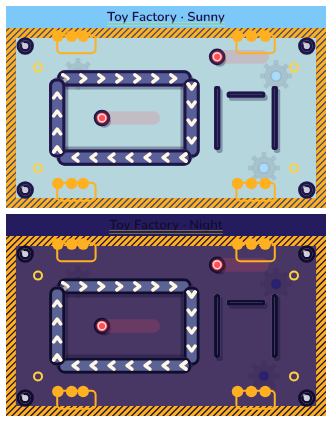
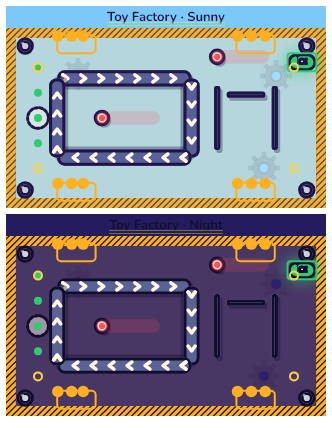
Land the approved race on Block Castle and Toy Factory (B-015)
Both maps now carry the race the owner approved in bugs6: Block Castle
starts on the west lawn and finishes on a pad inside the keep, Toy Factory
runs across the open floor to the top-east bay; both swap sides every round.
The numbers are pasted unchanged and both keep their Bumper Round.
A new race_maps_test holds the values; four_maps_test, the host picker
tests and docs/levels.md now say which maps have a race, and both design
sheets are re-rendered. Needs a device check: the keep gate opens only a
third of its cycle.

diff --git a/packages/test_game/test/race_maps_test.dart b/packages/test_game/test/race_maps_test.dart
@@ -1,0 +1,56 @@
+import 'dart:ui';
+
+import 'package:flutter/foundation.dart' show debugPrint;
+import 'package:flutter_test/flutter_test.dart';
+import 'package:test_game/test_game.dart';
+
+import 'support/map_files.dart';
+
+/// The race each map landed (M14 bugs7 b015), as the owner approved it in
+/// bugs6: Block Castle finishes inside the keep, Toy Factory in the top-east
+/// bay, and both swap sides every round, as the race does.
+const approvedRaces = <String, RaceSpec>{
+  'block-castle': RaceSpec(start: Offset(0.075, 0.5), goal: Rect.fromLTRB(0.4625, 0.444, 0.5375, 0.556)),
+  'toy-factory': RaceSpec(start: Offset(0.1, 0.5), goal: Rect.fromLTRB(0.88, 0.14, 0.97, 0.24)),
+};
+
+/// The maps of M14 k2b that stay Bumper Round only: no race to win.
+const bumperOnlyMapIds = ['pinball', 'spinning-tops'];
+
+void main() {
+  test('block-castle and toy-factory race from the approved start to the approved goal, swapping sides', () {
+    for (final MapEntry(key: id, value: approved) in approvedRaces.entries) {
+      final race = loadMap(id).race;
+      expect(race, isNotNull, reason: '$id has a race section (M14 bugs7 b015)');
+      expect(race?.start, approved.start, reason: '$id starts where the owner approved it');
+      expect(race?.goal, approved.goal, reason: '$id finishes on the approved pad');
+      expect(race?.swapSides, isTrue, reason: '$id swaps sides every round, as the race does');
+    }
+  });
+
+  test('block-castle and toy-factory keep their Bumper Round starts and coin zones', () {
+    for (final id in approvedRaces.keys) {
+      final bumper = loadMap(id).bumper;
+      expect(bumper, isNotNull, reason: '$id still plays the Bumper Round');
+      expect(bumper?.starts, hasLength(bumperStarts), reason: '$id still starts four marbles');
+    }
+  });
+
+  test('block-castle and toy-factory pass the rule book with their race in place', () {
+    for (final id in approvedRaces.keys) {
+      final issues = checkMap(loadMap(id));
+      for (final issue in issues) {
+        debugPrint('$issue');
+      }
+      expect(issues, isEmpty, reason: '$id: ${issues.isEmpty ? 'ready to race' : '${issues.length} issue(s)'}');
+    }
+  });
+
+  test('pinball and spinning-tops still have no race: the Bumper Round alone', () {
+    for (final id in bumperOnlyMapIds) {
+      final map = loadMap(id);
+      expect(map.race, isNull, reason: '$id is a Bumper Round arena with no finish (party-night §7b)');
+      expect(map.bumper, isNotNull, reason: '$id plays the Bumper Round');
+    }
+  });
+}

diff --git a/packages/party_host/test/arena_waiting_test.dart b/packages/party_host/test/arena_waiting_test.dart
@@ -59,12 +59,14 @@ void main() {
     }
     expect(find.byKey(const Key('arenaMap-surprise')), findsOneWidget);
 
-    // The race is the Playroom's alone: the four new maps are Bumper arenas
-    // with no finish, so the picker offers the other mode's maps alone (design
-    // section 7b).
+    // The race plays the Playroom and the two maps that landed one (M14 bugs7
+    // b015); the Bumper arenas with no finish are left out (design section 7b).
     await tapCard(tester, 'arenaMode-race');
     expect(find.byKey(const Key('arenaMap-playroom')), findsOneWidget);
+    expect(find.byKey(const Key('arenaMap-block-castle')), findsOneWidget, reason: 'Block Castle has a race');
+    expect(find.byKey(const Key('arenaMap-toy-factory')), findsOneWidget, reason: 'Toy Factory has a race');
     expect(find.byKey(const Key('arenaMap-pinball')), findsNothing, reason: 'Pinball has no race');
+    expect(find.byKey(const Key('arenaMap-spinning-tops')), findsNothing, reason: 'Spinning Tops has no race');
     expect(find.byKey(const Key('arenaMap-surprise')), findsOneWidget);
   });
 

diff --git a/packages/party_host/test/arena_phone_card_test.dart b/packages/party_host/test/arena_phone_card_test.dart
@@ -46,8 +46,11 @@ void main() {
     await press(tester, fake, 'p1', GamepadButton.a);
     expect(appContainer(tester).read(arenaSettingsProvider).mode, ArenaMode.race, reason: 'the next press works too');
 
-    // Down the card to the maps: the race plays the Playroom alone.
-    await walkTo(tester, fake, 'arenaMap-playroom', GamepadButton.dpadDown);
+    // Down the card to the map row — the race plays three maps since M14 bugs7
+    // b015, so the arrow lands on the card under the player rows — then left
+    // along the row to the Playroom.
+    await walkTo(tester, fake, 'arenaMap-block-castle', GamepadButton.dpadDown);
+    await walkTo(tester, fake, 'arenaMap-playroom', GamepadButton.dpadLeft);
     await press(tester, fake, 'p1', GamepadButton.a);
     expect(find.byKey(const Key('chosenMap-playroom')), findsOneWidget, reason: 'A presses the map row');
 

diff --git a/packages/test_game/test/four_maps_test.dart b/packages/test_game/test/four_maps_test.dart
@@ -71,11 +71,17 @@ void main() {
     }
   });
 
-  test('each new map plays the Bumper Round only: no race section, four mirror-image starts', () {
+  test('each new map plays the Bumper Round, and only pinball and spinning-tops have no race', () {
     for (final id in fourMapIds) {
-      final map = loadMap(id);
-      expect(map.race, isNull, reason: '$id is a Bumper Round arena (party-night §7b)');
-      expect(map.bumper, isNotNull, reason: '$id plays the Bumper Round');
+      expect(loadMap(id).bumper, isNotNull, reason: '$id plays the Bumper Round');
     }
+    expect(
+      [
+        for (final id in fourMapIds)
+          if (loadMap(id).race == null) id,
+      ],
+      ['pinball', 'spinning-tops'],
+      reason: 'Block Castle and Toy Factory landed a race too (M14 bugs7 b015)',
+    );
   });
 }

diff --git a/docs/briefs/m14/bugs7/b015-build-report.md b/docs/briefs/m14/bugs7/b015-build-report.md
@@ -1,0 +1,129 @@
+# b015 build: the race landed on Block Castle and Toy Factory
+
+## Summary
+
+**Fixed, unverified: needs device check.** The two race sections the owner approved in bugs6 are in the map files,
+numbers unchanged, and nothing else in either map changed (no wall, hazard, coin, Bumper or piece). Both maps still
+pass the rule book and the schema (4 tests each) and still play the Bumper Round.
+
+| | Block Castle | Toy Factory |
+| --- | --- | --- |
+| `start` | `[0.075, 0.5]` | `[0.1, 0.5]` |
+| `goal` | `[0.4625, 0.444, 0.5375, 0.556]` (12.0 × 10.1 units) | `[0.88, 0.14, 0.97, 0.24]` (14.4 × 9.0 units) |
+| `swapSides` | `true` | `true` |
+| sheet | 42,793 bytes, was 35,793 | 57,540 bytes, was 49,034 |
+
+- **Tests first.** New `race_maps_test.dart` (4 tests) failed on the old maps for the right reason ("block-castle has
+  a race section: Expected not null, actual null") before either map changed; it passes now.
+- **`four_maps_test.dart`** "Bumper Round only" is renamed and now says: all four keep the Bumper Round, and only
+  pinball and spinning-tops have `race == null`.
+- **The picker** now offers three race maps (playroom, block-castle, toy-factory) instead of one. `arena_waiting_test`
+  asserts the new set; `arena_phone_card_test` no longer passes, because with three map cards the down arrow lands on
+  Block Castle, so it now walks down to that card and left to the Playroom (same pick, same expectations).
+- **`docs/levels.md`** said "A map with only `bumper` is a Bumper Round arena with no finish (M14 k2's four)"; it now
+  names Pinball and Spinning Tops, and says the Playroom, Block Castle and Toy Factory play either mode.
+- **The sheets** are re-rendered by the kit's render test (the render is a pure function of the map), so they now show
+  the start column and the goal pad.
+- **The risk:** Block Castle's goal is inside the keep, whose west and east gates never admit a marble (bugs6); the
+  finish is a timing gate that opens to 1.8 marbles for about a third of a 3 s cycle.
+- **Not done:** a device play test (none exists over map files); and the steering runs in bugs6 (1.82 s, 2.23 s) were
+  over the same numbers, not repeated here.
+
+What the owner should try on a device: race Block Castle with 2–4 players and judge the keep gate (fair gap or lucky
+one), then Toy Factory, to see whether the open floor reads as a race or a straight line.
+
+## Kit used
+
+`tools/level.sh` itself is refused by the sandbox (as in bugs6), so I ran the commands its own table runs, from
+`packages/test_game`:
+
+- `flutter test --dart-define=mapId=block-castle test/map_check_test.dart test/map_schema_test.dart` → `+4: All tests passed!`
+- `flutter test --dart-define=mapId=toy-factory test/map_check_test.dart test/map_schema_test.dart` → `+4: All tests passed!`
+- `flutter test --dart-define=mapId=block-castle test/map_render_test.dart` → `wrote ../../docs/design/maps/block-castle.png (42793 bytes)`, `+1: All tests passed!`
+- `flutter test --dart-define=mapId=toy-factory test/map_render_test.dart` → `wrote ../../docs/design/maps/toy-factory.png (57540 bytes)`, `+1: All tests passed!`
+
+No Dart code produces a map: the race sections are the `.race.json` objects pasted into the two map files, and every
+check and picture comes from the kit.
+
+## Files changed
+
+- `packages/test_game/test/race_maps_test.dart` (new): the two approved races end to end, both maps' Bumper sections,
+  the rule book over each, and pinball/spinning-tops with no race.
+- `packages/test_game/maps/block-castle.json`: the approved `race` line before `bumper`, and the `notes` sentence
+  "No race section." replaced by one true clause on the race. No other change.
+- `packages/test_game/maps/toy-factory.json`: the same for Toy Factory.
+- `packages/test_game/test/four_maps_test.dart`: the "Bumper Round only" test renamed and changed to the real set of
+  maps without a race; its Bumper assertion kept.
+- `packages/party_host/test/arena_waiting_test.dart`: the race-mode map assertions now name the three race maps and
+  the two without one.
+- `packages/party_host/test/arena_phone_card_test.dart`: the card walk to the Playroom goes down to Block Castle and
+  left, since the map row has three cards now.
+- `docs/levels.md`: the one sentence saying which maps have a finish.
+- `docs/design/maps/block-castle.png`, `docs/design/maps/toy-factory.png`: re-rendered by the kit.
+
+## Computed test values
+
+- Block Castle goal: `(0.5375 − 0.4625) × 160 = 12.0` units across, `(0.556 − 0.444) × 90 = 10.08 ≈ 10.1` down.
+- Toy Factory goal: `(0.97 − 0.88) × 160 = 14.4` units across, `(0.24 − 0.14) × 90 = 9.0` down.
+- Starting spots are `RaceSpec.startOf(slot)` at `startSpacing = 0.14`: 0.5 ± 0.14 and ± 0.28, all inside the field.
+- The picker's race list is the index order filtered by `map.race != null`: playroom, block-castle, toy-factory (3);
+  bumper mode still lists all 5.
+- With three map cards in the Wrap the down arrow from the player rows lands on `arenaMap-block-castle` (measured
+  with a temporary print, reverted) and one left press reaches `arenaMap-playroom`.
+- Test counts on the final tree: arena 226, host 447, phone 464.
+
+## Decisions
+
+1. **The expected values are constants in the new test, not read from the bugs6 files.** The bugs6 brief folder is
+   deleted after a release, so a test reading it would break then; the numbers are copied unchanged and the test
+   names their source.
+2. **`race` sits before `bumper`, after `decor`.** That is `playroom.json`'s and the `docs/levels.md` example's order,
+   and it keeps each file's style.
+3. **The kit's own commands stand in for `tools/level.sh`**, as the brief allows for `render` and as bugs6 did for
+   `check`; nothing in the kit was worked around.
+4. **`site/shots/*.png` are back at the committed bytes.** The required `phone` check rewrites them; `git show
+   HEAD:…` wrote them back, so the tree has no diff outside `allow:`. (`docs/design/m13-*.png` and the Windows
+   generated plugin files were already dirty when the job started, at 21:09; not mine.)
+
+## Questions
+
+1. Block Castle's finish is the keep's timing gate (opens about a third of a 3 s cycle). Is that the intended
+   difficulty for the shipped race, or should a later job move the goal to the courtyard?
+2. The race's four starts sit 0.14 apart (about 2.2 marbles), under the Bumper Round's 3-marble rule. Should the
+   rule book gain a start-spacing check for the race? (bugs6 Q3, still open.)
+
+## Self-check (review-rules.md part A)
+
+1. **Every host setup** — not affected: no app, rules or protocol code changed, only map data read by the shared
+   picker; the picker is one code path for TV and phone, tested by `arena_waiting_test` ("the card shows … the maps it
+   can play") and `arena_phone_card_test` (a phone walks the card). Not run on a device.
+2. **When kept state starts and ends** — not affected: no timer, flag or cache is added; the race section is read once
+   when the map loads, as `race_maps_test`'s four tests show.
+3. **How a new state combines with the others** — the race section adds no pause, wait or input block; it only makes
+   the two maps offer the race mode, tested by `arena_waiting_test`'s mode switch and by `checkMap` over both maps
+   (`map_check_test.dart` with `mapId`, 4 tests each).
+4. **Stay in the job's folder** — `git status --porcelain` shows only files in `allow:` (plus the pre-existing dirty
+   files noted in Decision 4); the regenerated `site/shots` are restored byte-for-byte, so they show no change.
+5. **Stop rather than overstep** — nothing needed was outside `allow:`; `tools/level.sh` is refused by the sandbox, so
+   its exact commands were run instead (the brief names this for `render`); no design decision was taken silently.
+
+## Commit message
+
+Land the approved race on Block Castle and Toy Factory (B-015)
+
+Both maps now carry the race the owner approved in bugs6: Block Castle
+starts on the west lawn and finishes on a pad inside the keep, Toy Factory
+runs across the open floor to the top-east bay; both swap sides every round.
+The numbers are pasted unchanged and both keep their Bumper Round.
+A new race_maps_test holds the values; four_maps_test, the host picker
+tests and docs/levels.md now say which maps have a race, and both design
+sheets are re-rendered. Needs a device check: the keep gate opens only a
+third of its cycle.
+
+## Status row
+
+B-015 done: race landed on Block Castle and Toy Factory (data, tests, sheets, docs), all checks pass; fixed, unverified — needs a device check; open: the keep-gate timing and race start spacing.
+
+## Delete
+
+- none

diff --git a/docs/levels.md b/docs/levels.md
@@ -243,7 +243,7 @@ Positions are fractions, so the field plays the same in any window. Sizes and sp
 | `race` | The Shape Race's part: `start` (where the first player starts), `goal` (the pad, `[left, top, right, bottom]`) and `swapSides` (whether every round flips the field left to right, as the race does today). The other three starts sit above and below `start` at `startSpacing` (0.14 of the height), so a map's start needs room for four. |
 | `bumper` | The Bumper Round's part: `starts` (four spots) and `coins` (one or more rects a coin may appear in). |
 
-A map needs `race`, or `bumper`, or both: a map with neither is refused with a message saying to add one, since no mode could play it. A map with only `bumper` is a Bumper Round arena with no finish (M14 k2's four). A game built with no map plays the Playroom, and `maps/playroom.json` parses to `ArenaMap.playroom` exactly, so the field in code and the file cannot drift.
+A map needs `race`, or `bumper`, or both: a map with neither is refused with a message saying to add one, since no mode could play it. A map with only `bumper` is a Bumper Round arena with no finish (Pinball and Spinning Tops); one with both plays either mode (the Playroom, Block Castle and Toy Factory). A game built with no map plays the Playroom, and `maps/playroom.json` parses to `ArenaMap.playroom` exactly, so the field in code and the file cannot drift.
 
 ### The two modes' needs
 
